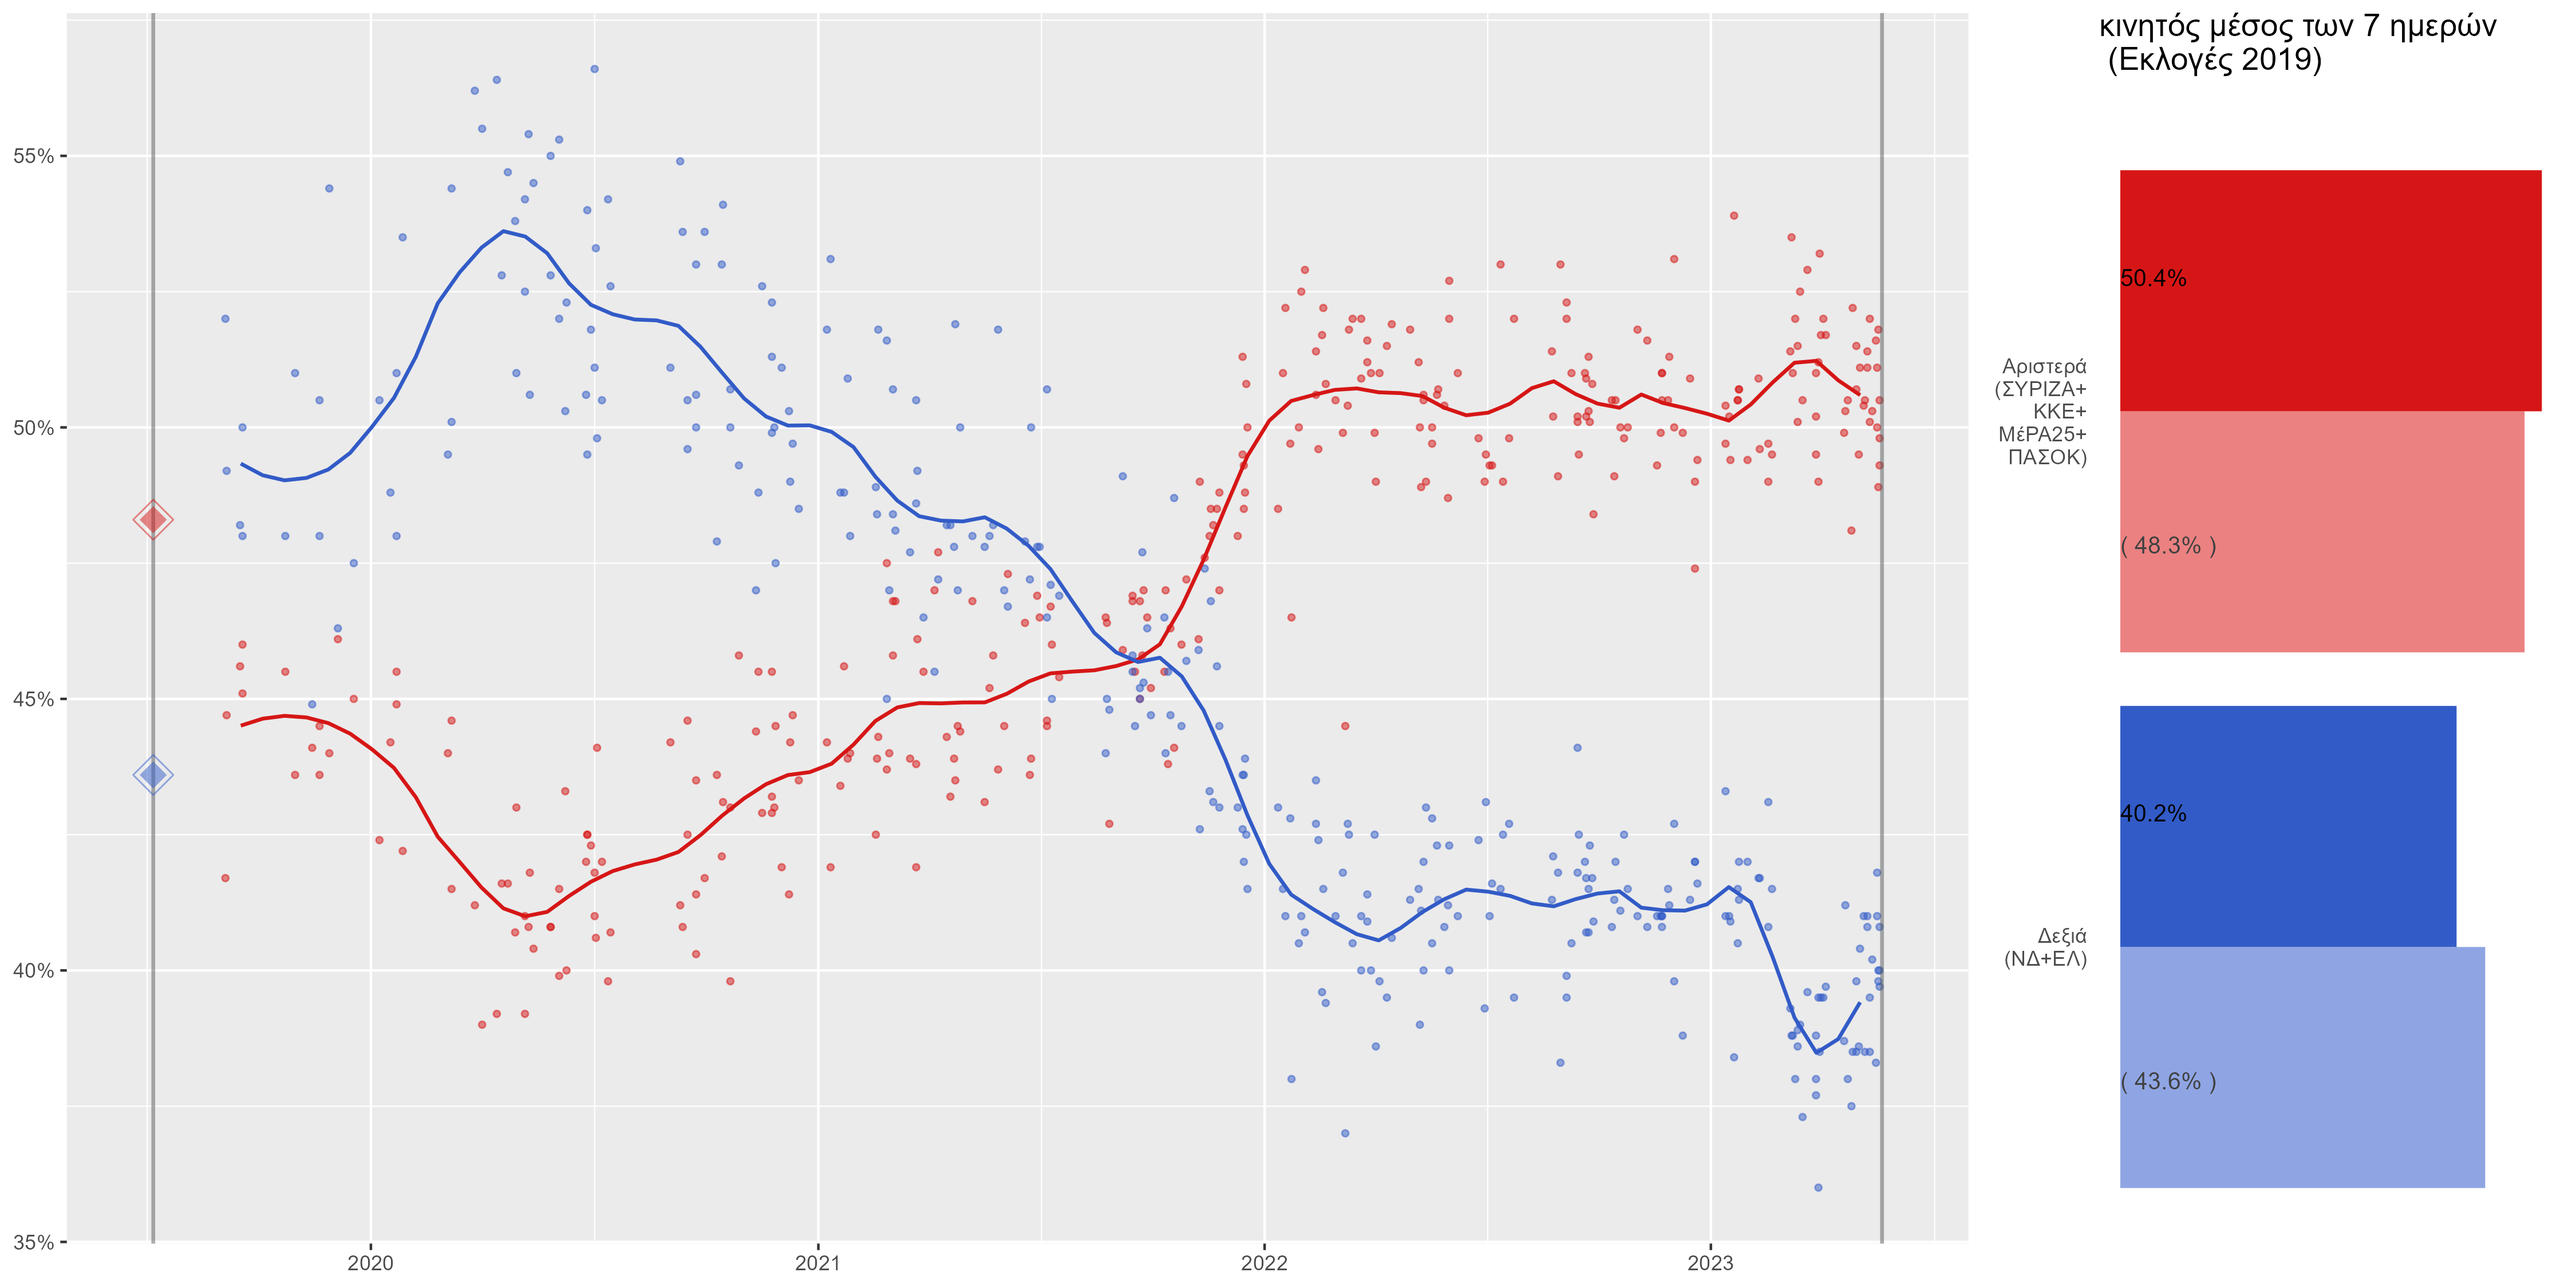
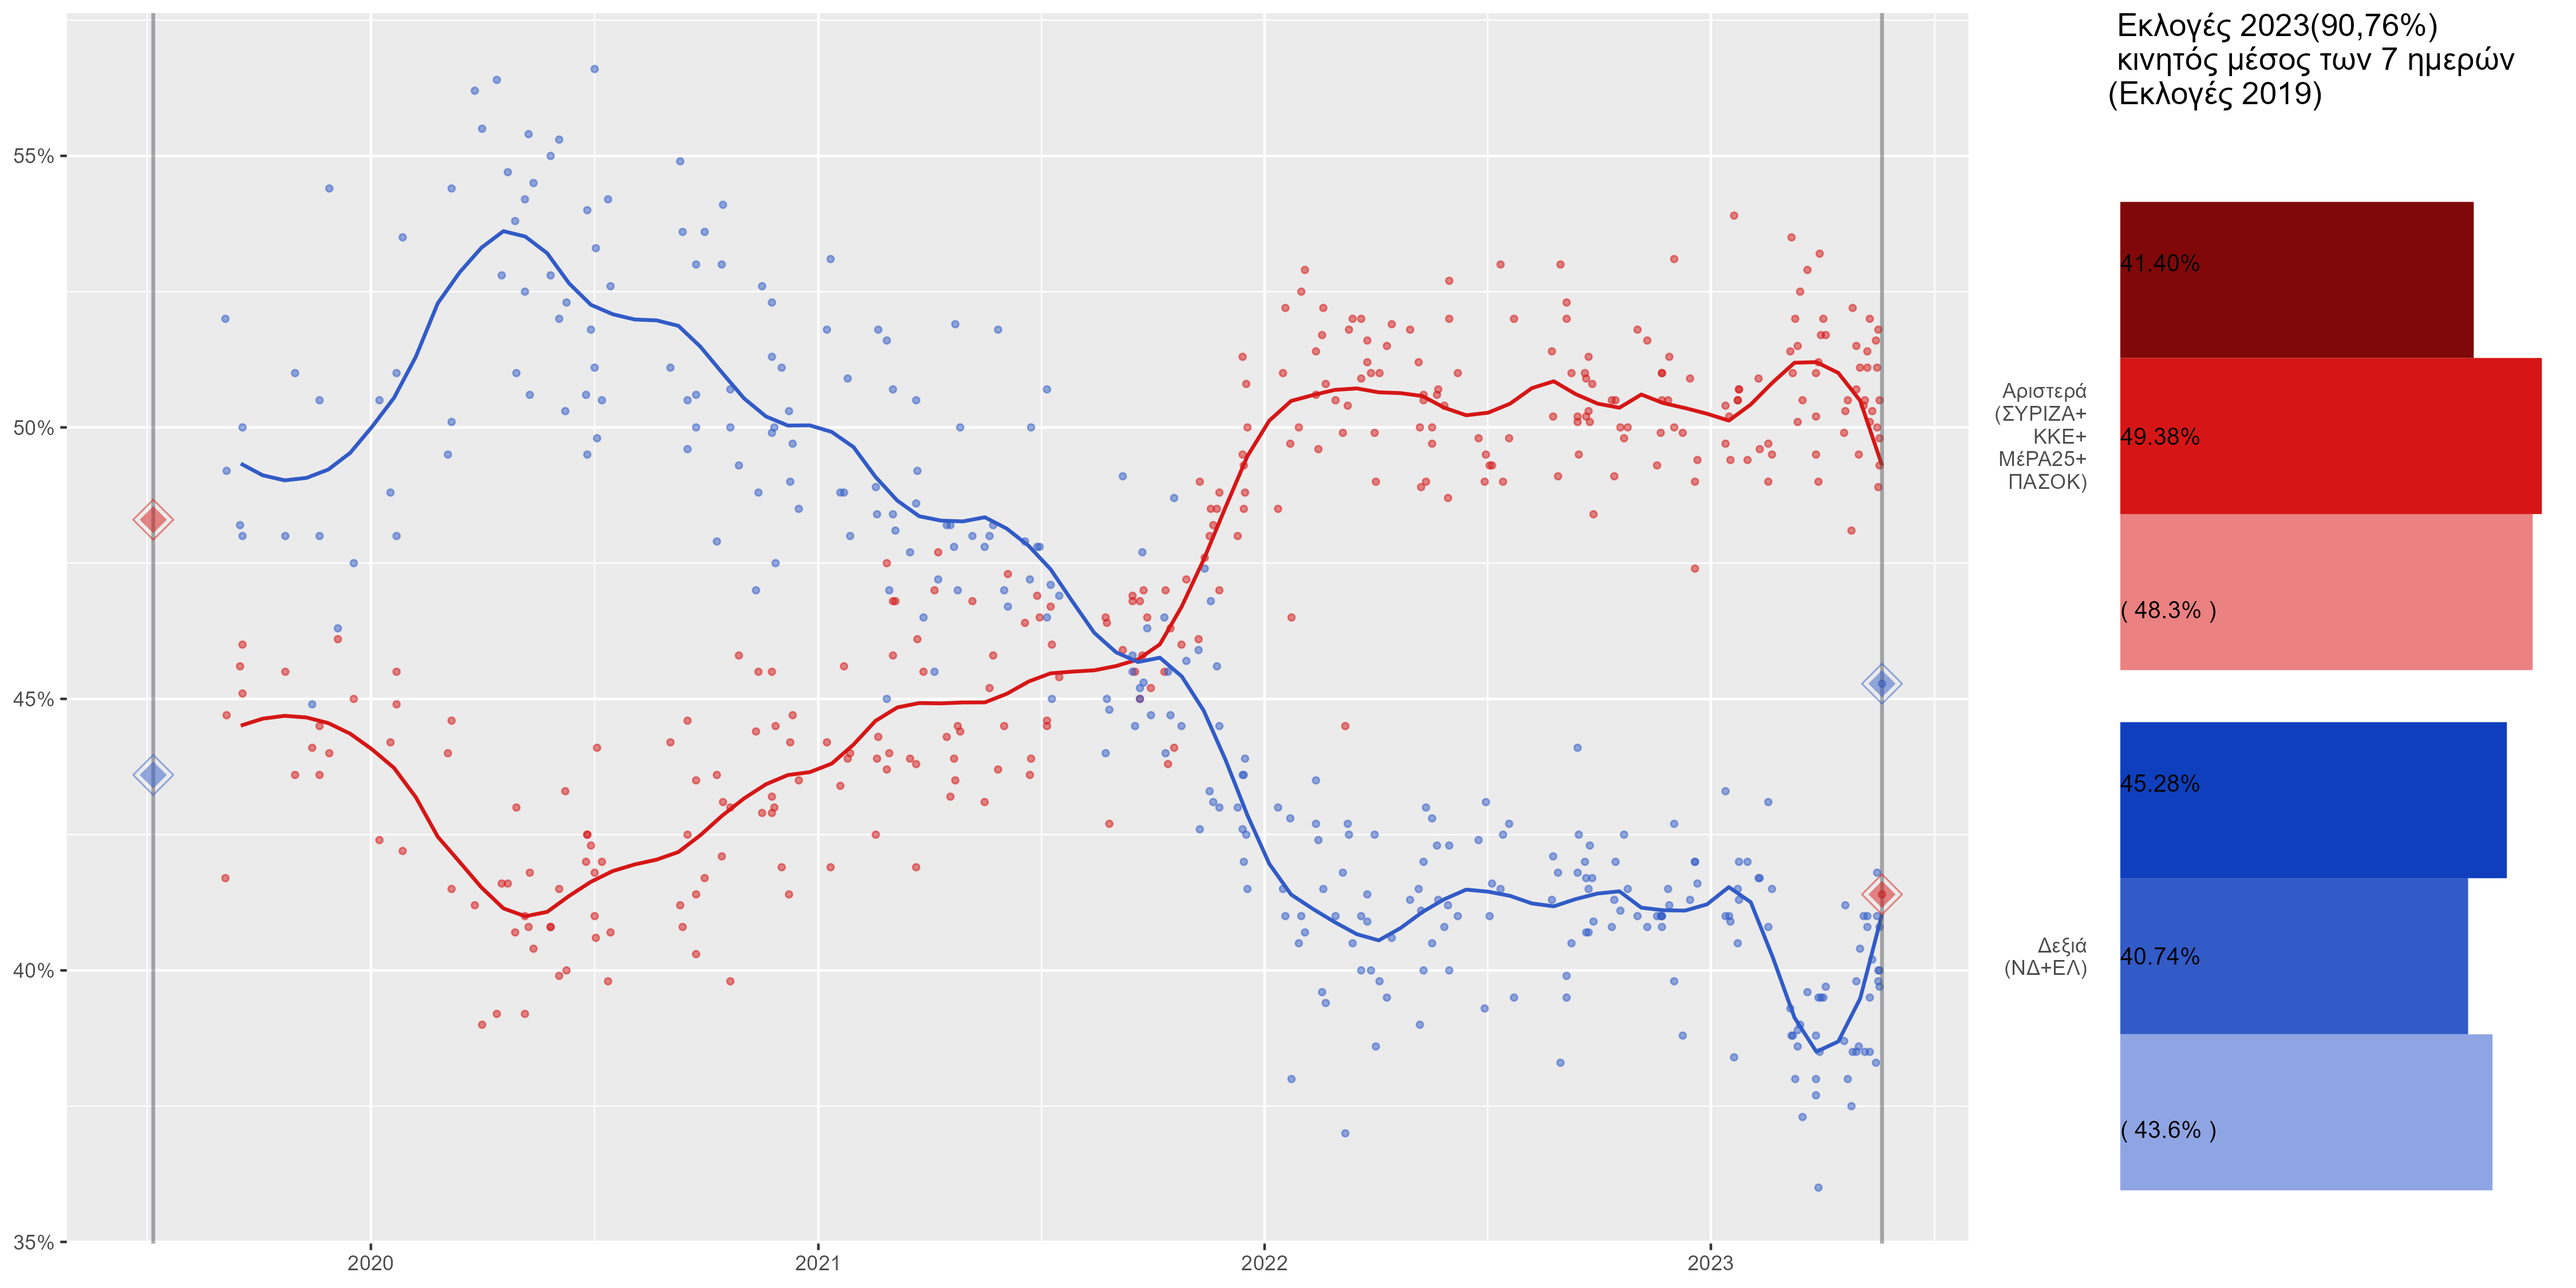
Greek Election Results

diff --git a/Greece/data.py b/Greece/data.py
@@ -32,6 +32,9 @@ for i in range(1):
 d[0].drop(d[0].index[[-1,-3]],inplace=True)
 
 D = pd.concat(d.values(), ignore_index=True)
+new_row = pd.DataFrame({'Date': '21 May 2023', 'ΝΔ':40.81 , 'ΣΥΡΙΖΑ':20.06 , 'ΠΑΣΟΚ - ΚΙΝΑΛ':11.58 , 'KKE':7.18, 'ΕΛ':4.47, 'ΜέΡΑ25':2.58}, index=[0])
+D = pd.concat([new_row,D]).reset_index(drop=True)
+D.Date=D.Date.astype(str).apply(lambda x: dateparser.parse(x, settings={'PREFER_DAY_OF_MONTH': 'first'}))
 
 D.to_csv('Greece/poll.csv', index=False)
 
@@ -41,5 +44,7 @@ D[parties] = D[parties].astype(float)
 D['Αριστερά  (ΣΥΡΙΖΑ+ KKE+ ΜέΡΑ25+ ΠΑΣΟΚ)'] = D[Left].sum(axis=1)
 D['Δεξιά     (ΝΔ+ΕΛ)'] = D[Right].sum(axis=1)
 D = D.drop(Left+Right, axis=1)
+
+
 
 D.to_csv('Greece/poll2.csv', index=False)
